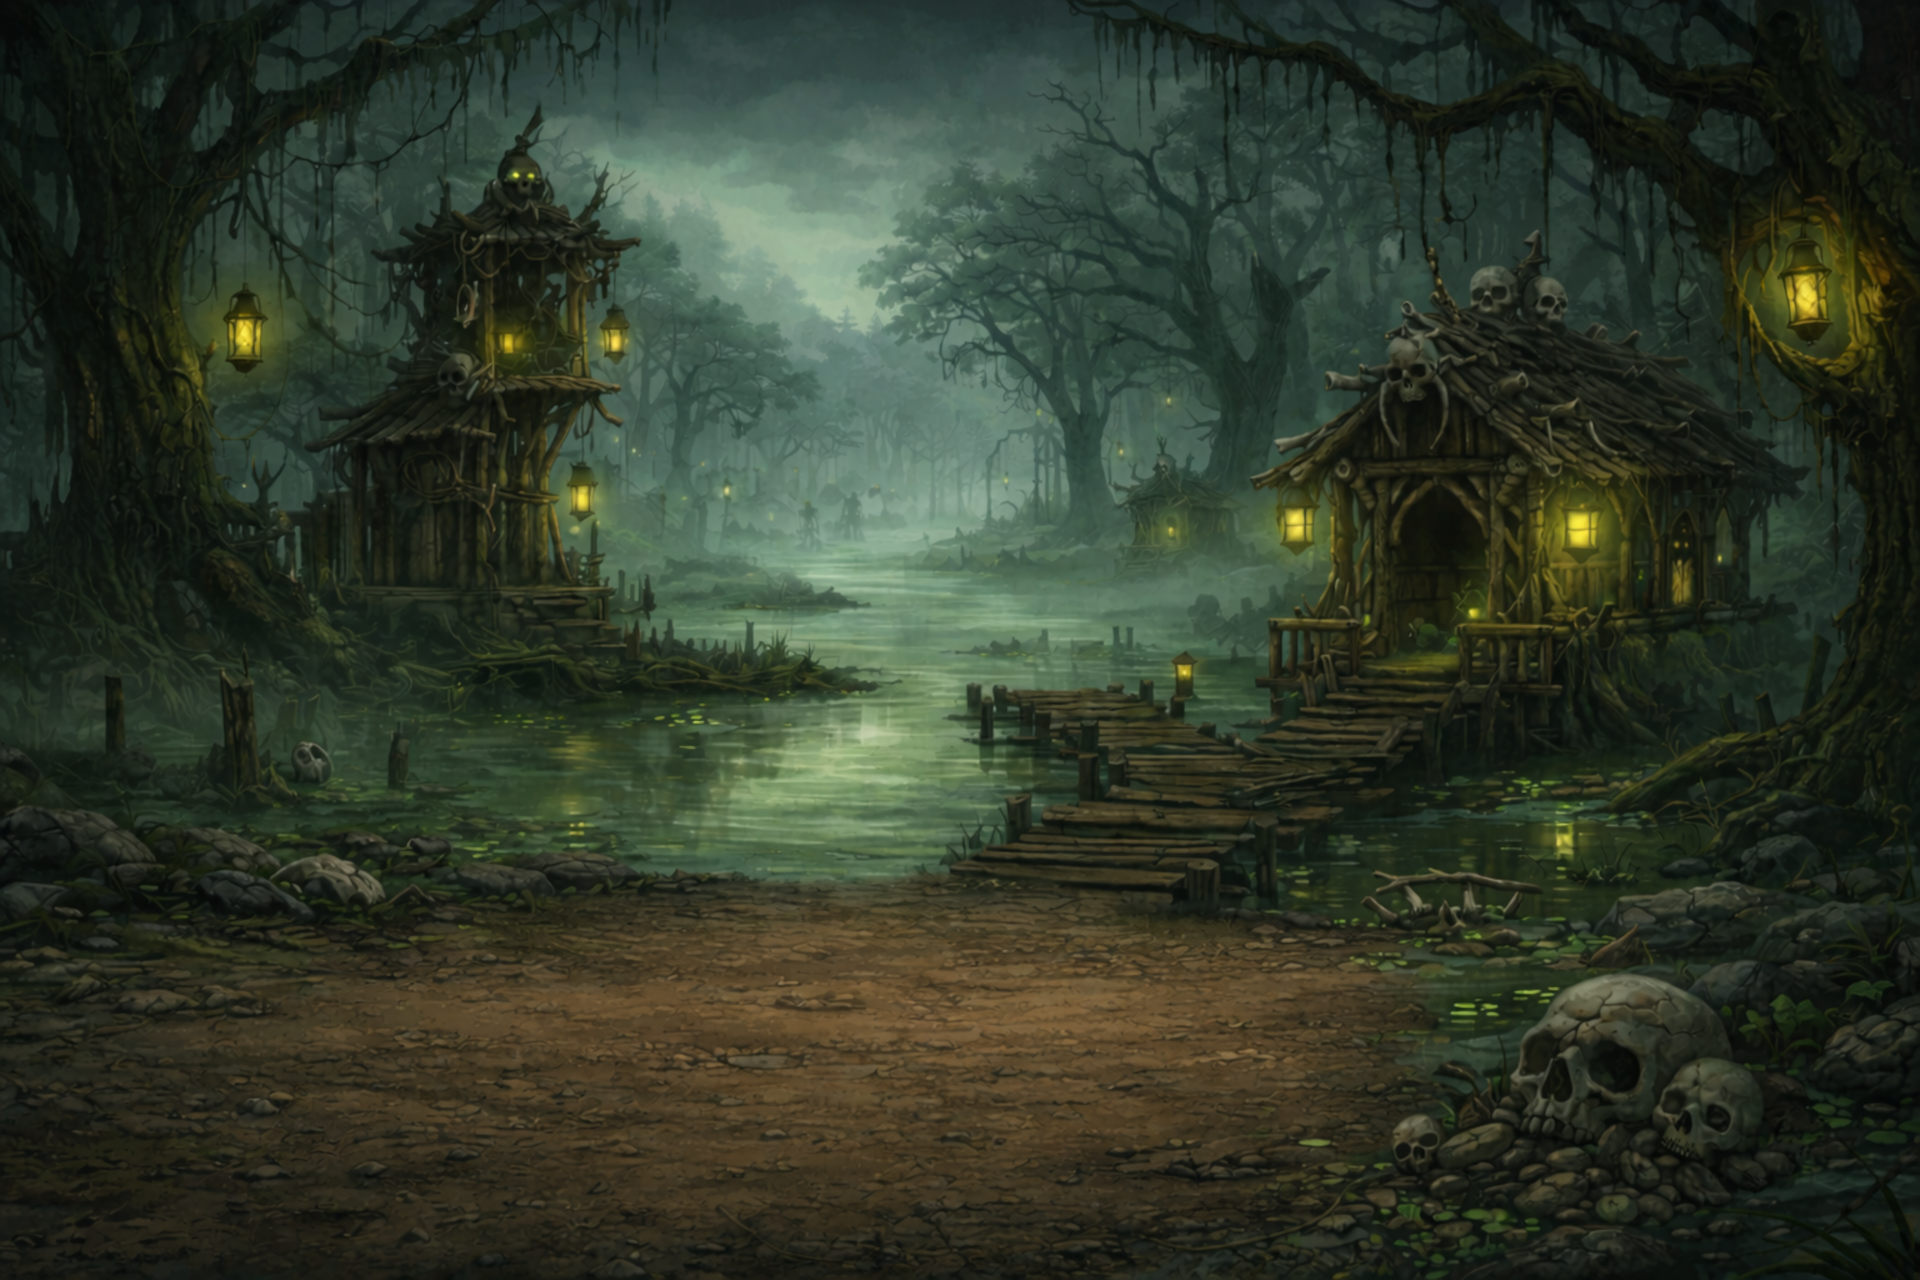
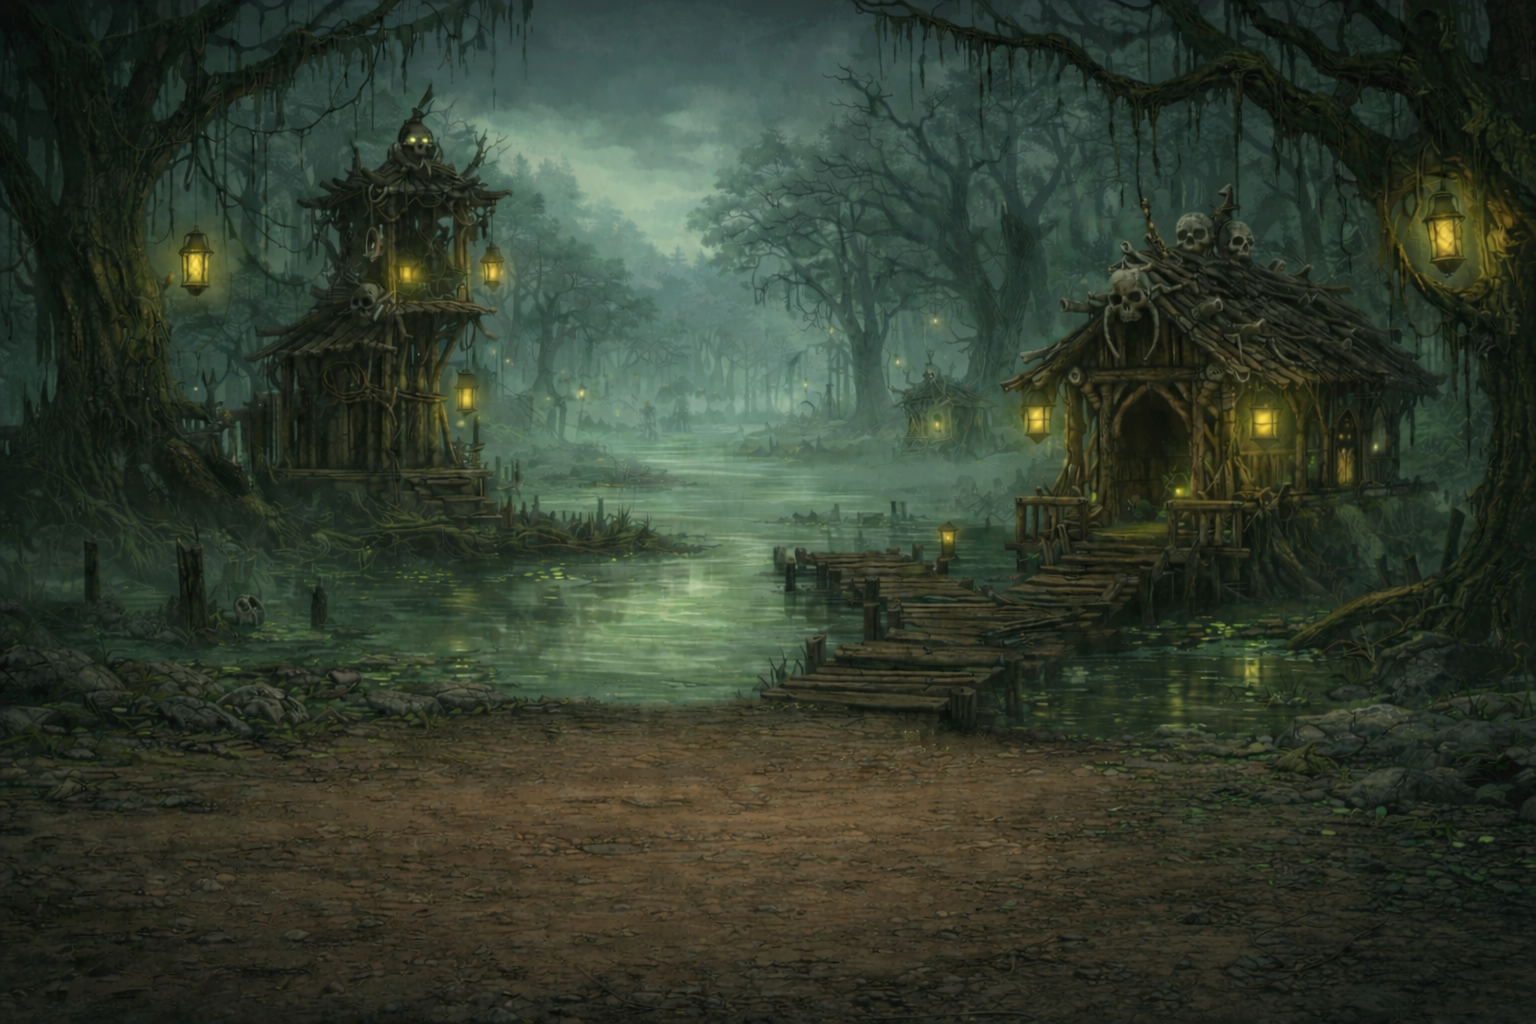
Added first iteration of attack timer, new skeletons, and new swamp biome

diff --git a/QuizForm.Ui.cs b/QuizForm.Ui.cs
@@ -18,8 +18,27 @@ namespace MathQuizLocker
 		// Initializes all UI components related to combat
 		private void InitializeCombatUi()
         {
-            // 1. Set Form Styles First
-            this.UpdateStyles();
+
+			_lblTimer = new Label
+			{
+				Name = "_lblTimer",
+			
+				ForeColor = Color.FromArgb(60, 40, 20),
+			
+				Font = new Font("Palatino Linotype", 48, FontStyle.Bold),
+				TextAlign = ContentAlignment.MiddleCenter,
+				BackColor = Color.Transparent,
+				Visible = false,
+				AutoSize = true
+			};
+			this.Controls.Add(_lblTimer);
+			_lblTimer.BringToFront();
+
+			// Configure the timer object
+			_countdownTimer.Interval = 1000; // 1 second
+			_countdownTimer.Tick += CountdownTimer_Tick;
+			// 1. Set Form Styles First
+			this.UpdateStyles();
             this.SetStyle(ControlStyles.UserPaint, true);
             this.SetStyle(ControlStyles.OptimizedDoubleBuffer, true);
             this.SetStyle(ControlStyles.AllPaintingInWmPaint, true);
@@ -29,8 +48,9 @@ namespace MathQuizLocker
             this.TopMost = true;
             this.Bounds = Screen.PrimaryScreen.Bounds;
        
-
             this.BackColor = Color.FromArgb(30, 30, 30);
+
+
 
             // 2. Instantiate ALL objects FIRST (Prevents NullReference errors)
             _picKnight = new DoubleBufferedPictureBox { SizeMode = PictureBoxSizeMode.Zoom, BackColor = Color.Transparent };
@@ -280,8 +300,11 @@ namespace MathQuizLocker
             _picMonster.Size = new Size((int)(450 * scale), (int)(550 * scale));
             _picMonster.Location = new Point((int)(w * 0.65), (int)(h * 0.90 - _picMonster.Height));
 
-            // Dice & Math Sign Positioning (Final Landing Spots)
-            int diceSize = (int)(120 * scale);
+			// Timer Positioning
+			_lblTimer.Location = new Point(w / 2 - _lblTimer.Width / 2, _picMultiply.Bottom + 20);
+
+			// Dice & Math Sign Positioning (Final Landing Spots)
+			int diceSize = (int)(120 * scale);
 
             _picMultiply.Size = new Size(diceSize, diceSize);
             _picMultiply.Location = new Point(w / 2 - _picMultiply.Width / 2, (int)(h * 0.15));

diff --git a/QuizForm.cs b/QuizForm.cs
@@ -56,8 +56,13 @@ namespace MathQuizLocker
         private System.Diagnostics.Stopwatch _frameTimer = new System.Diagnostics.Stopwatch();
         private long _lastFrameMs = 0;
 
-        // Enable double buffering to reduce flicker
-        protected override CreateParams CreateParams
+		// Countdown Timer for answering questions
+		private System.Windows.Forms.Timer _countdownTimer = new();
+		private int _secondsRemaining = 10;
+		private Label _lblTimer; 
+
+		// Enable double buffering to reduce flicker
+		protected override CreateParams CreateParams
         {
             get
             {
@@ -67,7 +72,27 @@ namespace MathQuizLocker
             }
         }
 
-        public QuizForm(AppSettings settings)
+		private void CountdownTimer_Tick(object? sender, EventArgs e)
+		{
+			_secondsRemaining--;
+			_lblTimer.Text = $"{_secondsRemaining}";
+
+			if (_secondsRemaining <= 0)
+			{
+				_countdownTimer.Stop();
+				_lblTimer.Visible = false;
+
+				// Disable input and trigger monster strike
+				_txtAnswer.Enabled = false;
+				_btnSubmit.Enabled = false;
+
+				int failureDmg = _a * _b; // Use the math result as punishment damage
+				AnimateMonsterAttack(failureDmg);
+			}
+		}
+
+
+		public QuizForm(AppSettings settings)
         {
             _settings = settings;
             _quizEngine = new QuizEngine(_settings);
@@ -382,8 +407,11 @@ namespace MathQuizLocker
         {
             if (_isAnimating || !int.TryParse(_txtAnswer.Text, out int ans)) return;
 
-            // HIDE DICE IMMEDIATELY
-            _die1.Visible = false;
+			_countdownTimer.Stop(); // Stop the clock immediately
+			_lblTimer.Visible = false;
+
+			// HIDE DICE IMMEDIATELY
+			_die1.Visible = false;
             _die2.Visible = false;
             _picMultiply.Visible = false;
             this.Invalidate();

diff --git a/QuizForm.Helpers.cs b/QuizForm.Helpers.cs
@@ -190,7 +190,7 @@ namespace MathQuizLocker
             int tier = Math.Max(1, _settings.MaxFactorUnlocked);
 
 
-			_currentMonsterName = tier < 3 ? "goblin" : tier < 4 ? "slime" : tier < 7 ? "orc" : "dragon";
+			_currentMonsterName = tier < 3 ? "goblin" : tier < 5 ? "skeleton" : tier < 6 ? "slime" : tier < 7 ? "orc" : "dragon";
 			UpdateMonsterSprite("idle");
         }
 
@@ -211,7 +211,14 @@ namespace MathQuizLocker
 
         private void GenerateQuestion()
         {
-            var q = _quizEngine.GetNextQuestion();
+
+			_secondsRemaining = 10;
+			if (_lblTimer != null)
+			{
+				_lblTimer.Text = "10";
+				_lblTimer.Visible = false; // Keep hidden while dice are rolling
+			}
+			var q = _quizEngine.GetNextQuestion();
             _a = q.a;
             _b = q.b;
 
@@ -353,8 +360,26 @@ namespace MathQuizLocker
             _die2.Image = AssetCache.GetImageClone(AssetPaths.Dice($"die_{_b}.png"));
             _picMultiply.Image = AssetCache.GetImageClone(AssetPaths.Dice("multiply.png"));
 
-            // 4. Force a final redraw to show the static dice
-            this.Invalidate();
+			// 4. RESET AND START THE TIMER
+			// Stop any existing timer to prevent double-ticking
+			_countdownTimer.Stop();
+
+			// Reset the internal counter to a full 10 seconds
+			_secondsRemaining = 10;
+
+			// 5. Restart the timer and enable input
+			_lblTimer.Text = "10";
+			_lblTimer.Visible = true;
+			_txtAnswer.Enabled = true;
+			_btnSubmit.Enabled = true;
+	
+
+			_txtAnswer.Focus();
+
+			_countdownTimer.Start();
+
+
+			this.Invalidate();
         }
     }
 }
